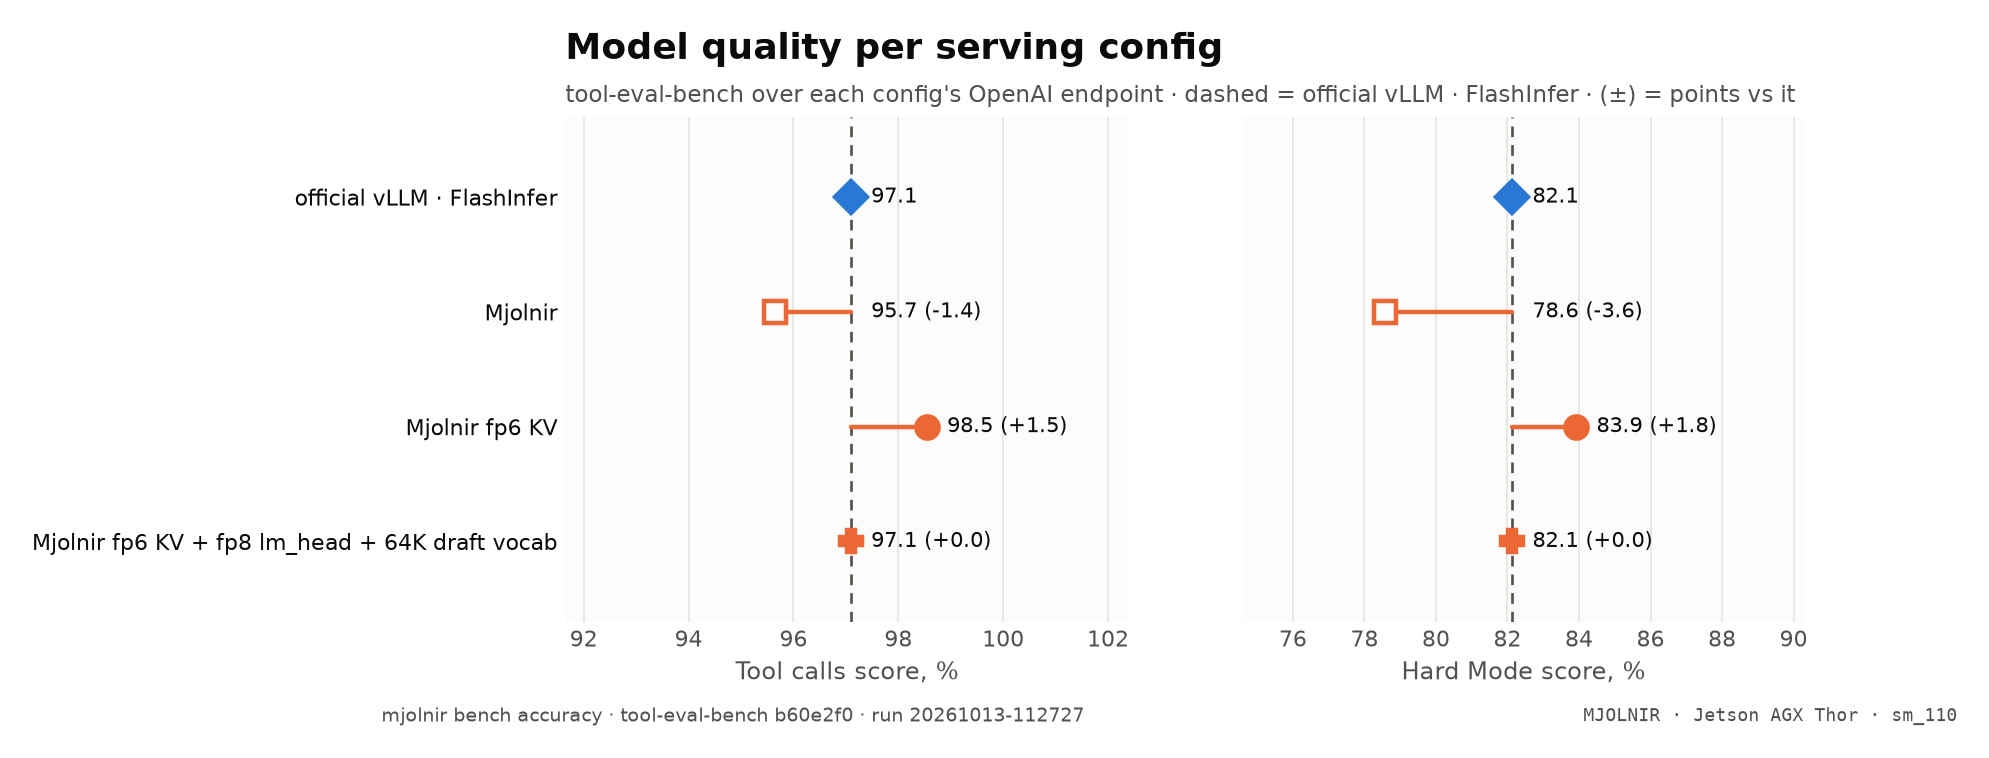
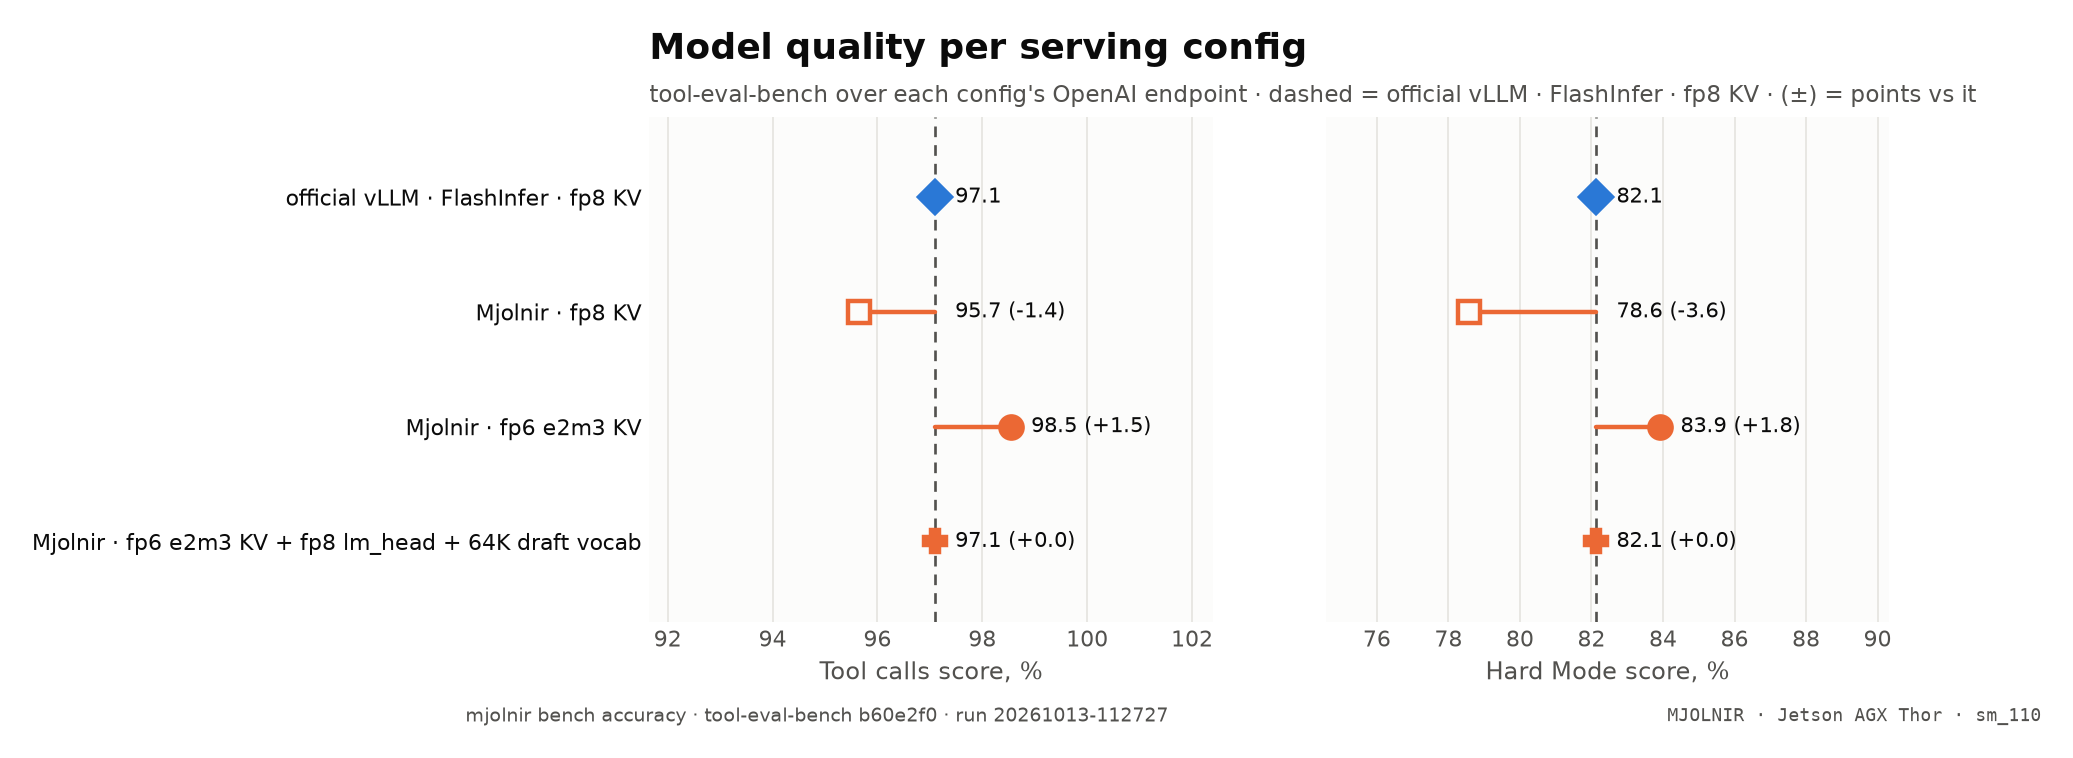
Re-render README, docs and charts

diff --git a/README.md b/README.md
@@ -17,10 +17,11 @@
 </p>
 
 <p align="center">
-  <b><em>Mjölnir</em></b> — <em>a decode-attention kernel built for exactly one GPU: the <b>Jetson AGX Thor</b>.</em>
+  <b><em>Mjölnir</em></b> — <em>faster, bigger-context LLM serving on the <b>Jetson AGX Thor</b>: a dedicated decode kernel, a tuned vLLM image and a CLI that serves, benchmarks and documents it.</em>
 </p>
 
 <p align="center">
+  <a href="#-key-features">Features</a> •
   <a href="#quickstart">Quickstart</a> •
   <a href="#benchmarks">Benchmarks</a> •
   <a href="https://thor-arena.github.io/mjolnir/">Interactive charts</a> •
@@ -33,13 +34,98 @@
 
 > *Mjölnir* is Old Norse for "Thor's hammer" — pronounced **"MYOL-nir"**.
 
-**Mjolnir is a paged fp8 decode-attention kernel for the NVIDIA Jetson AGX Thor (`sm_110`)**, written in CuTe DSL on Blackwell's `tcgen05` tensor cores, `TMEM` and `TMA`, and shipped as a vLLM attention backend:
+**Mjolnir makes LLM serving on the NVIDIA Jetson AGX Thor faster and roomier**: a decode-attention kernel written for this one chip (`sm_110`, CuTe DSL on `tcgen05` tensor cores, `TMEM` and `TMA`), a 6-bit KV cache format for vLLM, a patched vLLM image that runs it, and a CLI that serves models from YAML configs and benchmarks every claim:
 
 ```bash
-vllm serve <model> --attention-backend MJOLNIR
+mjolnir serve up        # or: vllm serve <model> --attention-backend MJOLNIR
 ```
 
 Every generated token re-reads the whole KV cache, so on a 273 GB/s edge GPU **decode speed is a memory problem**. Stock vLLM 0.31.0 runs FlashAttention 2 on Thor, which has no fp8 KV path and reads twice the bytes; FlashInfer is the fastest stock option. Mjolnir is built for this exact chip: 20 SMs, 2 CTAs per SM, a 32 MiB L2, LPDDR5X.
+
+## ⚡ Key Features
+
+<table width="100%">
+  <tr>
+    <td width="33%" valign="top" align="center">
+      <br>
+      <h3>🚀&nbsp;Faster decode</h3>
+      <p><b>+64% tokens/s</b> per request vs the official vLLM image <sub>(1 request, 4K context)</sub>.</p>
+      <br>
+    </td>
+    <td width="33%" valign="top" align="center">
+      <br>
+      <h3>⏱&nbsp;Faster prompts</h3>
+      <p><b>+210%</b> prefill throughput, <b>−26%</b> time to first token.</p>
+      <br>
+    </td>
+    <td width="33%" valign="top" align="center">
+      <br>
+      <h3>🧠&nbsp;More context per GB</h3>
+      <p>The 6-bit <code>e2m3</code> KV cache holds <b>+31% tokens</b> in the same memory: longer documents, more users.</p>
+      <br>
+    </td>
+  </tr>
+  <tr>
+    <td width="33%" valign="top" align="center">
+      <br>
+      <h3>🎯&nbsp;Same answers</h3>
+      <p>Tool calling within <b>±3.6 points</b> of the stock FlashInfer fp8 baseline on 97 agentic scenarios (<a href="docs/kernel/accuracy.md">accuracy</a>).</p>
+      <br>
+    </td>
+    <td width="33%" valign="top" align="center">
+      <br>
+      <h3>🔮&nbsp;4-token speculation</h3>
+      <p>MTP with <b>4 draft tokens</b>: an fp8 lm_head and a 64K draft vocabulary make each draft cheap enough to pay off.</p>
+      <br>
+    </td>
+    <td width="33%" valign="top" align="center">
+      <br>
+      <h3>🔩&nbsp;A kernel for this chip</h3>
+      <p><b>1.24×</b> FlashInfer per decode step (geomean, 128 to 256K tokens), checked against a bit-faithful emulator.</p>
+      <br>
+    </td>
+  </tr>
+  <tr>
+    <td width="33%" valign="top" align="center">
+      <br>
+      <h3>🐳&nbsp;One image</h3>
+      <p>Official vLLM 0.31.0 + Mjolnir + Thor patches. Drop-in: <code>--attention-backend MJOLNIR</code>.</p>
+      <br>
+    </td>
+    <td width="33%" valign="top" align="center">
+      <br>
+      <h3>📄&nbsp;Models as YAML</h3>
+      <p>Each model is a YAML file of serve flags plus an optional <code>.env</code>. <code>mjolnir serve up</code> does the rest (<a href="#model-configs-yaml--env">how</a>).</p>
+      <br>
+    </td>
+    <td width="33%" valign="top" align="center">
+      <br>
+      <h3>🧪&nbsp;Calibrated per model</h3>
+      <p>KV-cache scales and the draft vocabulary come from <code>mjolnir calibrate</code> and ship next to the config.</p>
+      <br>
+    </td>
+  </tr>
+  <tr>
+    <td width="33%" valign="top" align="center">
+      <br>
+      <h3>📊&nbsp;Benchmarks you can rerun</h3>
+      <p>Kernel, serving and accuracy benches in one CLI: gated clean windows, raw JSON for every number.</p>
+      <br>
+    </td>
+    <td width="33%" valign="top" align="center">
+      <br>
+      <h3>🤖&nbsp;A self-writing README</h3>
+      <p>Every table, chart and number on this page is rendered from the raw results. No hand-typed claims.</p>
+      <br>
+    </td>
+    <td width="33%" valign="top" align="center">
+      <br>
+      <h3>🔬&nbsp;Autoresearch</h3>
+      <p>An agent loop proposes, tests and logs kernel experiments; every try leaves data behind.</p>
+      <br>
+    </td>
+  </tr>
+</table>
 
 <p align="center">
 <picture>
@@ -48,14 +134,14 @@ Every generated token re-reads the whole KV cache, so on a 273 GB/s edge GPU **d
 </picture>
 </p>
 
-> <sub>End to end on a Jetson AGX Thor (MTP, 3 speculative tokens vs MTP, 4 speculative tokens), one request at 128K context: decode <b>+41.7%</b>, prefill <b>+193.5%</b>, time to first token <b>168.46 s → 58.36 s (−65.4%)</b>, inter-token latency <b>49.2 ms → 36.0 ms (−26.9%)</b> vs the official vLLM image — <a href="#official-vllm-image-vs-mjolnir">all cells</a>.</sub>
+> <sub>End to end on a Jetson AGX Thor (MTP, 3 speculative tokens vs MTP, 4 speculative tokens), one request at 4K context $\color{grey}{(the\ 1-request\ cell\ up\ to\ 32K\ with\ the\ highest\ decode\ gain)}$: decode <b>+64.2%</b>, prefill <b>+210.0%</b>, time to first token <b>2.31 s → 1.70 s (−26.5%)</b>, inter-token latency <b>43.5 ms → 26.6 ms (−38.9%)</b> vs the official vLLM image — <a href="#official-vllm-image-vs-mjolnir">all cells</a>.</sub>
 
 <details>
 <summary>How the % and × here are calculated</summary>
 
 - **Throughput** (decode, prefill — tokens/s, higher is better): change = (Mjolnir − official) ÷ official × 100. `+57%` = 1.57× the tokens per second. On the infographic a change of +100% or more is written as the multiple Mjolnir ÷ official (`+200%` = `3×`).
 - **Latency** (TTFT, ITL — milliseconds, lower is better): change = (Mjolnir − official) ÷ official × 100, so a negative value is a **latency reduction**: `−27%` = 27% fewer milliseconds. It is *not* the reciprocal speedup official ÷ Mjolnir − 1, which reads larger for the same pair.
-- **Worked example** (128K context, 1 request): TTFT 168,458 → 58,360 ms: (58,360 − 168,458) ÷ 168,458 × 100 = **−65.4%** (a latency reduction of 65.4%). The reciprocal speedup would be 168,458 ÷ 58,360 = 2.89× (+188.7%) — the same measurement, a different convention.
+- **Worked example** (4K context, 1 request): TTFT 2,314 → 1,701 ms: (1,701 − 2,314) ÷ 2,314 × 100 = **−26.5%** (a latency reduction of 26.5%). The reciprocal speedup would be 2,314 ÷ 1,701 = 1.36× (+36.0%) — the same measurement, a different convention.
 - **Values**: the mean over the measured runs per cell (6 measured after 2 warm-ups, llama-benchy): decode = generated tokens ÷ generation time per request (summed over requests at higher concurrency), prefill = prompt tokens ÷ prompt-processing time, TTFT = time to the first content token, ITL = 1000 ÷ the per-request decode rate.
 - **Colors**: green = better by at least 3%, grey = within ±3% (`E2E_NOISE_PCT`), red = worse by at least that. With speculative decoding a single decode cell moves more between runs (acceptance depends on the prompt), so repeat (`--repeat`) before reading a few-% difference.
 
@@ -123,6 +209,30 @@ docker run --rm -it --gpus all --ipc host -p 8000:8000 -e VLLM_KV_CACHE_LAYOUT=H
 
 **Or bring your own vLLM 0.31.0**: `pip install mjolnir-kernel` registers the backend as `CUSTOM` through vLLM's plugin system (`--attention-backend CUSTOM`); [`thor-mjolnir-attention-backend.patch`](docker/vllm-thor/patches/thor-mjolnir-attention-backend.patch) adds the `MJOLNIR` name.
 
+## Model configs (YAML + .env)
+
+A served model is a file, not a command line. Each config is the `vllm serve` flags in YAML — model, quantization, KV-cache dtype, attention backend, speculative decoding, context length — under `configs/<vendor>/<model>/<config>.yaml`. What YAML cannot carry (the fp8 lm_head, the draft vocabulary) goes into an optional `<config>.env` sidecar of `KEY=VALUE` switches, and the model's calibration files (`kv_scales.json`, `draft_vocab.json`) sit in the same directory:
+
+```text
+configs/Qwen/Qwen3.8-27B/
+├── NVFP4_MJOLNIR_E2M3_LMH8_VT64K.yaml   attention-backend: MJOLNIR · kv-cache-dtype: fp6_e2m3 · MTP, 4 drafts
+├── NVFP4_MJOLNIR_E2M3_LMH8_VT64K.env    MJOLNIR_LM_HEAD=fp8 · MJOLNIR_DRAFT_VOCAB={configs}/draft_vocab.json
+├── NVFP4.yaml                    the stock FlashInfer baseline, same model and limits
+├── kv_scales.json                per-channel KV scales (mjolnir calibrate)
+└── draft_vocab.json              the drafter's vocabulary (mjolnir calibrate --draft-vocab)
+```
+
+```bash
+mjolnir model use                       # pick the model and config (interactive)
+mjolnir serve up --config NVFP4_MJOLNIR_E2M3   # or serve one explicitly
+```
+
+- **One file per variant** — an A/B is two configs, not two shell histories: `mjolnir bench ab --backends NVFP4,NVFP4_MJOLNIR_E2M3_LMH8_VT64K`.
+- **The same config everywhere** — `serve`, `bench`, `verify` and `calibrate` read the same YAML and `.env`, so a benchmark measures exactly what you serve.
+- **Yours without forking** — drop configs into `~/.local/share/mjolnir/configs/` (same layout); they appear next to the repo's.
+
+More: [adding a model config](docs/faq/new-model-config.md) · [the default model and config](docs/faq/default-model-quant.md) · [serving](docs/faq/serve-server.md) · [which setting wins](docs/faq/settings-precedence.md) · [fp6 KV and calibration](docs/faq/fp6-kv.md).
+
 ## Benchmarks
 
 All kernel numbers are **ncu kernel time** (decode + split-KV merge), cold L2, base clocks, one sequence with 24 query / 4 KV heads, head dim 256, 128-token pages — the attention shape of Qwen3.8-27B — at **every context length from 128 to 256K tokens**. Legs:
@@ -179,31 +289,30 @@ Native vLLM 0.31.0 — FlashInfer, on the **official** `vllm/vllm-openai` image,
   <img src="assets/benchmarks/e2e-decode.png" alt="End-to-end decode throughput: official vLLM vs Mjolnir" width="100%">
 </picture>
 
+<picture>
+  <source media="(prefers-color-scheme: dark)" srcset="assets/benchmarks/e2e-prefill-dark.png">
+  <img src="assets/benchmarks/e2e-prefill.png" alt="End-to-end prompt processing: official vLLM vs Mjolnir" width="100%">
+</picture>
+
 Each cell: official → **Mjolnir** and the relative change of the value — **throughput change** for decode and prefill (+ = more tokens/s), **latency change** for TTFT and ITL (− = fewer milliseconds, a latency reduction, not a reciprocal speedup). Green = better beyond the ±3% noise band, grey = within it, red = worse beyond it. With speculative decoding the decode rate also depends on how many draft tokens are accepted, which varies by prompt, so single decode cells move by more than the band from run to run.
 
-| context | requests | decode (t/s, ↑) · throughput change | prefill (t/s, ↑) · throughput change | TTFT (ms, ↓) · latency change | ITL (ms, ↓) · latency change |
+| context | requests | decode (t/s, ↑) $\color{grey}{throughput\ change}$ | prefill (t/s, ↑) $\color{grey}{throughput\ change}$ | TTFT (ms, ↓) $\color{grey}{latency\ change}$ | ITL (ms, ↓) $\color{grey}{latency\ change}$ |
 |--:|--:|--:|--:|--:|--:|
 | no ctx | 1 | 22.5 → **35.4** $\color{#16a34a}{\text{+57.3\\%}}$ | 2,929 → *n/a* | 833 → **590** $\color{#16a34a}{\text{−29.1\\%}}$ | 45.0 → **28.6** $\color{#16a34a}{\text{−36.4\\%}}$ |
 | 4K | 1 | 23.1 → **37.9** $\color{#16a34a}{\text{+64.2\\%}}$ | 2,820 → **8,740** $\color{#16a34a}{\text{+210.0\\%}}$ | 2,314 → **1,701** $\color{#16a34a}{\text{−26.5\\%}}$ | 43.5 → **26.6** $\color{#16a34a}{\text{−38.9\\%}}$ |
 | 8K | 1 | 22.8 → **35.2** $\color{#16a34a}{\text{+54.9\\%}}$ | 2,562 → **5,077** $\color{#16a34a}{\text{+98.2\\%}}$ | 4,132 → **3,015** $\color{#16a34a}{\text{−27.0\\%}}$ | 44.4 → **28.6** $\color{#16a34a}{\text{−35.5\\%}}$ |
 | 16K | 1 | 23.2 → **33.8** $\color{#16a34a}{\text{+45.3\\%}}$ | 2,205 → **3,978** $\color{#16a34a}{\text{+80.4\\%}}$ | 8,493 → **5,631** $\color{#16a34a}{\text{−33.7\\%}}$ | 43.3 → **30.0** $\color{#16a34a}{\text{−30.6\\%}}$ |
 | 32K | 1 | 23.2 → **33.0** $\color{#16a34a}{\text{+42.1\\%}}$ | 1,762 → **3,383** $\color{#16a34a}{\text{+92.0\\%}}$ | 19,894 → **11,289** $\color{#16a34a}{\text{−43.3\\%}}$ | 43.2 → **31.0** $\color{#16a34a}{\text{−28.3\\%}}$ |
-| 64K | 1 | 22.6 → **32.9** $\color{#16a34a}{\text{+45.8\\%}}$ | 1,255 → **2,877** $\color{#16a34a}{\text{+129.4\\%}}$ | 54,008 → **24,488** $\color{#16a34a}{\text{−54.7\\%}}$ | 44.3 → **30.8** $\color{#16a34a}{\text{−30.7\\%}}$ |
-| 128K | 1 | 20.5 → **29.0** $\color{#16a34a}{\text{+41.7\\%}}$ | 791 → **2,321** $\color{#16a34a}{\text{+193.5\\%}}$ | 168,458 → **58,360** $\color{#16a34a}{\text{−65.4\\%}}$ | 49.2 → **36.0** $\color{#16a34a}{\text{−26.9\\%}}$ |
 | no ctx | 2 | 46.5 → **63.4** $\color{#16a34a}{\text{+36.4\\%}}$ | 2,744 → **3,487** $\color{#16a34a}{\text{+27.1\\%}}$ | 1,433 → **1,097** $\color{#16a34a}{\text{−23.4\\%}}$ | 40.5 → **29.5** $\color{#16a34a}{\text{−27.3\\%}}$ |
 | 4K | 2 | 43.6 → **59.4** $\color{#16a34a}{\text{+36.3\\%}}$ | 2,728 → **3,644** $\color{#16a34a}{\text{+33.6\\%}}$ | 4,444 → **3,259** $\color{#16a34a}{\text{−26.7\\%}}$ | 43.1 → **30.4** $\color{#16a34a}{\text{−29.4\\%}}$ |
 | 8K | 2 | 45.6 → **58.0** $\color{#16a34a}{\text{+27.2\\%}}$ | 2,515 → **3,399** $\color{#16a34a}{\text{+35.1\\%}}$ | 8,081 → **5,847** $\color{#16a34a}{\text{−27.6\\%}}$ | 42.1 → **32.1** $\color{#16a34a}{\text{−23.8\\%}}$ |
 | 16K | 2 | 45.6 → **56.5** $\color{#16a34a}{\text{+23.9\\%}}$ | 2,195 → **3,299** $\color{#16a34a}{\text{+50.3\\%}}$ | 16,734 → **11,049** $\color{#16a34a}{\text{−34.0\\%}}$ | 42.3 → **33.7** $\color{#16a34a}{\text{−20.2\\%}}$ |
 | 32K | 2 | 36.7 → **44.0** $\color{#16a34a}{\text{+19.8\\%}}$ | 1,752 → **3,083** $\color{#16a34a}{\text{+76.0\\%}}$ | 39,043 → **21,938** $\color{#16a34a}{\text{−43.8\\%}}$ | 47.3 → **39.2** $\color{#16a34a}{\text{−17.3\\%}}$ |
-| 64K | 2 | *n/a* → **15.1** | *n/a* → **2,734** | *n/a* → **43,245** | *n/a* → **81.8** |
-| 128K | 2 | *n/a* → **4.7** | *n/a* → **2,237** | *n/a* → **94,897** | *n/a* → **225.4** |
 | no ctx | 4 | 85.0 → **109.4** $\color{#16a34a}{\text{+28.7\\%}}$ | 2,912 → **3,436** $\color{#16a34a}{\text{+18.0\\%}}$ | 2,781 → **2,248** $\color{#16a34a}{\text{−19.2\\%}}$ | 44.1 → **30.8** $\color{#16a34a}{\text{−30.1\\%}}$ |
 | 4K | 4 | 78.5 → **99.4** $\color{#16a34a}{\text{+26.6\\%}}$ | 2,722 → **3,485** $\color{#16a34a}{\text{+28.0\\%}}$ | 8,993 → **6,909** $\color{#16a34a}{\text{−23.2\\%}}$ | 46.8 → **33.1** $\color{#16a34a}{\text{−29.2\\%}}$ |
 | 8K | 4 | 68.1 → **68.6** $\color{grey}{\text{+0.7\\%}}$ | 2,491 → **3,349** $\color{#16a34a}{\text{+34.4\\%}}$ | 16,121 → **11,310** $\color{#16a34a}{\text{−29.8\\%}}$ | 49.1 → **39.8** $\color{#16a34a}{\text{−19.0\\%}}$ |
 | 16K | 4 | 42.0 → **50.8** $\color{#16a34a}{\text{+20.8\\%}}$ | 2,172 → **3,226** $\color{#16a34a}{\text{+48.5\\%}}$ | 32,309 → **21,042** $\color{#16a34a}{\text{−34.9\\%}}$ | 60.0 → **47.5** $\color{#16a34a}{\text{−20.9\\%}}$ |
 | 32K | 4 | 11.6 → **18.3** $\color{#16a34a}{\text{+58.5\\%}}$ | 1,738 → **3,010** $\color{#16a34a}{\text{+73.2\\%}}$ | 65,787 → **36,854** $\color{#16a34a}{\text{−44.0\\%}}$ | 161.8 → **107.7** $\color{#16a34a}{\text{−33.4\\%}}$ |
-| 64K | 4 | *n/a* → **7.3** | *n/a* → **2,664** | *n/a* → **71,508** | *n/a* → **272.6** |
-| 128K | 4 | *n/a* → **2.8** | *n/a* → **2,178** | *n/a* → **159,034** | *n/a* → **705.3** |
 
 > <sub>official: `vllm/vllm-openai:v0.31.0-ubuntu2404 · NVFP4 (vLLM 0.31.0 (official image))` · Mjolnir: `narandill/mjolnir-vllm:v0.31.0 · NVFP4_MJOLNIR_E2M3_LMH8_VT64K (Mjolnir fp6 KV + fp8 lm_head + 64K draft vocab)` · TTFT = time to first token; ITL = inter-token latency (1000 / per-request decode rate) · from [`benchmarks/history.jsonl`](benchmarks/history.jsonl).</sub>
 
@@ -212,7 +321,7 @@ Each cell: official → **Mjolnir** and the relative change of the value — **t
 
 - **Throughput** (decode, prefill — tokens/s, higher is better): change = (Mjolnir − official) ÷ official × 100. `+57%` = 1.57× the tokens per second. On the infographic a change of +100% or more is written as the multiple Mjolnir ÷ official (`+200%` = `3×`).
 - **Latency** (TTFT, ITL — milliseconds, lower is better): change = (Mjolnir − official) ÷ official × 100, so a negative value is a **latency reduction**: `−27%` = 27% fewer milliseconds. It is *not* the reciprocal speedup official ÷ Mjolnir − 1, which reads larger for the same pair.
-- **Worked example** (128K context, 1 request): TTFT 168,458 → 58,360 ms: (58,360 − 168,458) ÷ 168,458 × 100 = **−65.4%** (a latency reduction of 65.4%). The reciprocal speedup would be 168,458 ÷ 58,360 = 2.89× (+188.7%) — the same measurement, a different convention.
+- **Worked example** (4K context, 1 request): TTFT 2,314 → 1,701 ms: (1,701 − 2,314) ÷ 2,314 × 100 = **−26.5%** (a latency reduction of 26.5%). The reciprocal speedup would be 2,314 ÷ 1,701 = 1.36× (+36.0%) — the same measurement, a different convention.
 - **Values**: the mean over the measured runs per cell (6 measured after 2 warm-ups, llama-benchy): decode = generated tokens ÷ generation time per request (summed over requests at higher concurrency), prefill = prompt tokens ÷ prompt-processing time, TTFT = time to the first content token, ITL = 1000 ÷ the per-request decode rate.
 - **Colors**: green = better by at least 3%, grey = within ±3% (`E2E_NOISE_PCT`), red = worse by at least that. With speculative decoding a single decode cell moves more between runs (acceptance depends on the prompt), so repeat (`--repeat`) before reading a few-% difference.
 

diff --git a/docs/kernel/accuracy.md b/docs/kernel/accuracy.md
@@ -25,16 +25,16 @@ Sampling is greedy (temperature 0) with a fixed seed, so two configs see the sam
   <img src="../../assets/benchmarks/accuracy-suites.png" alt="Score per suite and serving config" width="100%">
 </picture>
 
-- **Mjolnir** vs official vLLM · FlashInfer: Tool calls -1.4, Hard Mode -3.6 points (4 scenarios scored lower, 2 higher of 97).
-- **Mjolnir fp6 KV** vs official vLLM · FlashInfer: Tool calls +1.5, Hard Mode +1.8 points (0 scenarios scored lower, 3 higher of 97).
-- **Mjolnir fp6 KV + fp8 lm_head + 64K draft vocab** vs official vLLM · FlashInfer: Tool calls +0.0, Hard Mode +0.0 points (1 scenarios scored lower, 1 higher of 97).
+- **Mjolnir · fp8 KV** vs official vLLM · FlashInfer · fp8 KV: Tool calls -1.4, Hard Mode -3.6 points (4 scenarios scored lower, 2 higher of 97).
+- **Mjolnir · fp6 e2m3 KV** vs official vLLM · FlashInfer · fp8 KV: Tool calls +1.5, Hard Mode +1.8 points (0 scenarios scored lower, 3 higher of 97).
+- **Mjolnir · fp6 e2m3 KV + fp8 lm_head + 64K draft vocab** vs official vLLM · FlashInfer · fp8 KV: Tool calls +0.0, Hard Mode +0.0 points (1 scenarios scored lower, 1 higher of 97).
 
 | config | KV | Tool calls % | Hard Mode % | completion |
 |---|---|--:|--:|--:|
-| **official vLLM · FlashInfer** | fp8 | 97.1 | 82.1 | 100% |
-| Mjolnir | fp8 | 95.7 (-1.4) | 78.6 (-3.6) | 100% |
-| Mjolnir fp6 KV | fp6 e2m3 | 98.5 (+1.5) | 83.9 (+1.8) | 100% |
-| Mjolnir fp6 KV + fp8 lm_head + 64K draft vocab | fp6 e2m3 | 97.1 (+0.0) | 82.1 (+0.0) | 100% |
+| **official vLLM · FlashInfer · fp8 KV** | fp8 | 97.1 | 82.1 | 100% |
+| Mjolnir · fp8 KV | fp8 | 95.7 (-1.4) | 78.6 (-3.6) | 100% |
+| Mjolnir · fp6 e2m3 KV | fp6 e2m3 | 98.5 (+1.5) | 83.9 (+1.8) | 100% |
+| Mjolnir · fp6 e2m3 KV + fp8 lm_head + 64K draft vocab | fp6 e2m3 | 97.1 (+0.0) | 82.1 (+0.0) | 100% |
 
 <details>
 <summary>How the % and × here are calculated</summary>
@@ -45,7 +45,7 @@ Sampling is greedy (temperature 0) with a fixed seed, so two configs see the sam
 
 </details>
 
-<sub>Score in %, (±) = points vs **official vLLM · FlashInfer**; n = averaged runs (`--trials`). Each row takes every suite from the newest run that measured it. tool-eval-bench arguments: Tool calls: `run --hardmode --seed 42 --timeout 600`; Hard Mode: `run --hardmode --seed 42 --timeout 600`. Rendered from [`benchmarks/raw/accuracy/20261013-112727/accuracy.json`](../../benchmarks/raw/accuracy/20261013-112727/accuracy.json).</sub>
+<sub>Score in %, (±) = points vs **official vLLM · FlashInfer · fp8 KV**; n = averaged runs (`--trials`). Each row takes every suite from the newest run that measured it. tool-eval-bench arguments: Tool calls: `run --hardmode --seed 42 --timeout 600`; Hard Mode: `run --hardmode --seed 42 --timeout 600`. Rendered from [`benchmarks/raw/accuracy/20261013-112727/accuracy.json`](../../benchmarks/raw/accuracy/20261013-112727/accuracy.json).</sub>
 
 ### By tool-call category
 
@@ -54,7 +54,7 @@ Sampling is greedy (temperature 0) with a fixed seed, so two configs see the sam
   <img src="../../assets/benchmarks/accuracy-categories.png" alt="Tool-call categories per serving config" width="100%">
 </picture>
 
-| category | official vLLM · FlashInfer | Mjolnir | Mjolnir fp6 KV | Mjolnir fp6 KV + fp8 lm_head + 64K draft vocab |
+| category | official vLLM · FlashInfer · fp8 KV | Mjolnir · fp8 KV | Mjolnir · fp6 e2m3 KV | Mjolnir · fp6 e2m3 KV + fp8 lm_head + 64K draft vocab |
 |---|--:|--:|--:|--:|
 | A · Tool Selection | 100 | 100 | 100 | 100 |
 | B · Parameter Precision | 100 | 100 | 100 | 100 |
